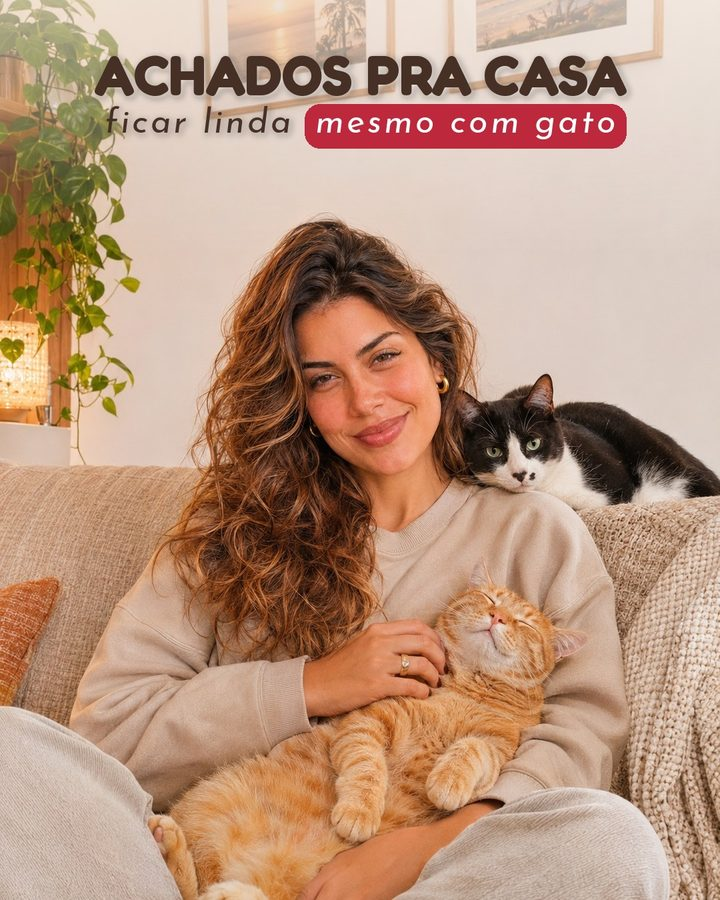
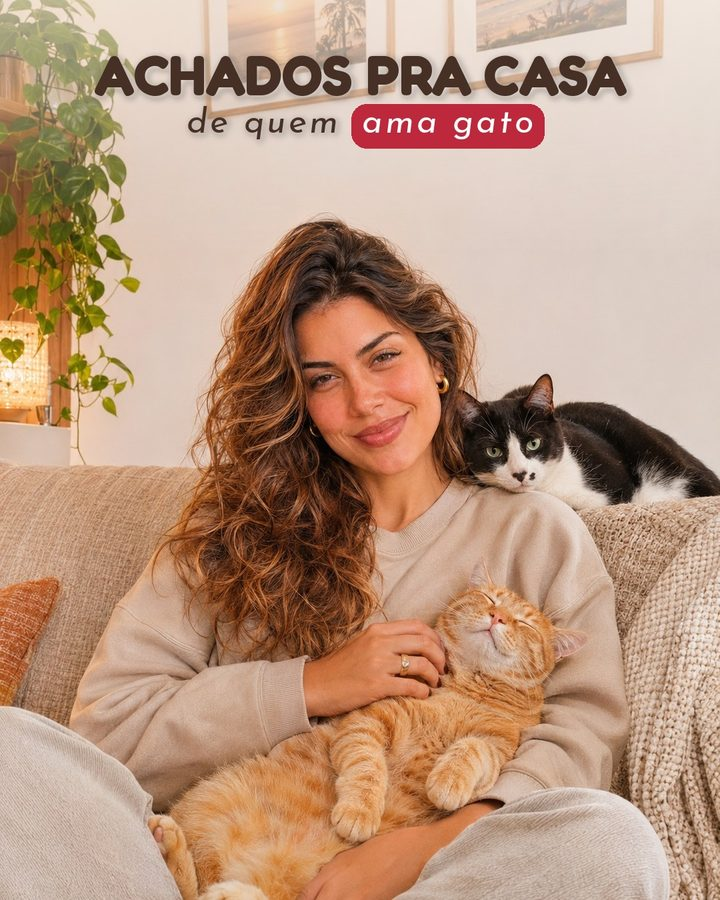
Add files via upload

Changed region(s): [[0.1528, 0.0933, 0.8861, 0.1867]]

diff --git a/pet/index.html b/pet/index.html
@@ -3,9 +3,9 @@
 <head>
 <meta charset="utf-8">
 <meta name="viewport" content="width=device-width, initial-scale=1">
-<title>Achados pra casa ficar linda mesmo com gato · Lista da Malu</title>
+<title>Achados pra casa de quem ama gato · Lista da Malu</title>
 <meta name="description" content="Os achados do carrossel pet da Lista da Malu, cada um com o link na Shopee.">
-<meta property="og:title" content="Achados pra casa ficar linda mesmo com gato">
+<meta property="og:title" content="Achados pra casa de quem ama gato">
 <meta property="og:image" content="https://listadamalu.github.io/pet/01-capa.jpg">
 <link rel="preconnect" href="https://fonts.googleapis.com">
 <link rel="preconnect" href="https://fonts.gstatic.com" crossorigin>
@@ -48,7 +48,7 @@
   <a class="back" href="../">← Lista da Malu</a>
   <header class="hero">
     <small>Carrossel · Pet</small>
-    <h1>Achados pra casa ficar linda mesmo com gato</h1>
+    <h1>Achados pra casa de quem ama gato</h1>
     <p>Cada foto do carrossel está aqui na mesma ordem, com o link na Shopee.</p>
   </header>
 
